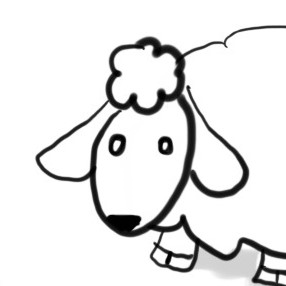
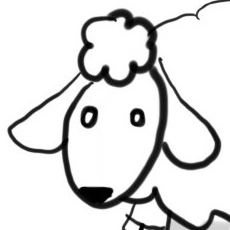
Small css fix to image sizing

Changed region(s): [[0.0304, 0.0304, 1.0, 1.0], [0.8826, 0.0, 1.0, 0.0304]]

diff --git a/index.html b/index.html
@@ -29,7 +29,12 @@
       <ol>
         <li>
           <div class="post-entry">
-            <img src="cook_me_a_story_thumb.png" class="post-bubble" />
+            <img
+              src="cook_me_a_story_thumb.png"
+              height="230"
+              width="230"
+              class="post-bubble"
+            />
             <div class="post-info">
               <p class="post-type">Case study</p>
               <a
@@ -45,7 +50,12 @@
         </li>
         <li>
           <div class="post-entry">
-            <img src="jamming_thumb.png" class="post-bubble" />
+            <img
+              src="jamming_thumb.png"
+              height="230"
+              width="230"
+              class="post-bubble"
+            />
             <div class="post-info">
               <p class="post-type">Case study</p>
               <a
@@ -60,7 +70,12 @@
         </li>
         <li>
           <div class="post-entry">
-            <img src="coming_out_simulator_thumb.png" class="post-bubble" />
+            <img
+              src="coming_out_simulator_thumb.png"
+              height="230"
+              width="230"
+              class="post-bubble"
+            />
             <div class="post-info">
               <p class="post-type">Case study</p>
               <a
@@ -76,7 +91,12 @@
         </li>
         <li>
           <div class="post-entry">
-            <img src="blob_thumb.png" class="post-bubble" />
+            <img
+              src="blob_thumb.png"
+              height="92"
+              width="92"
+              class="post-bubble"
+            />
             <div class="post-info">
               <p class="post-type">Case study</p>
               <a

diff --git a/main.css b/main.css
@@ -150,8 +150,8 @@ header ul li a:hover {
 
 .post-bubble {
   border-radius: 100%;
-  width: 24vw;
-  height: 24vw;
+  width: 24%;
+  height: 24%;
   border: #d33830 solid 6px;
   margin-right: 12px;
 }
